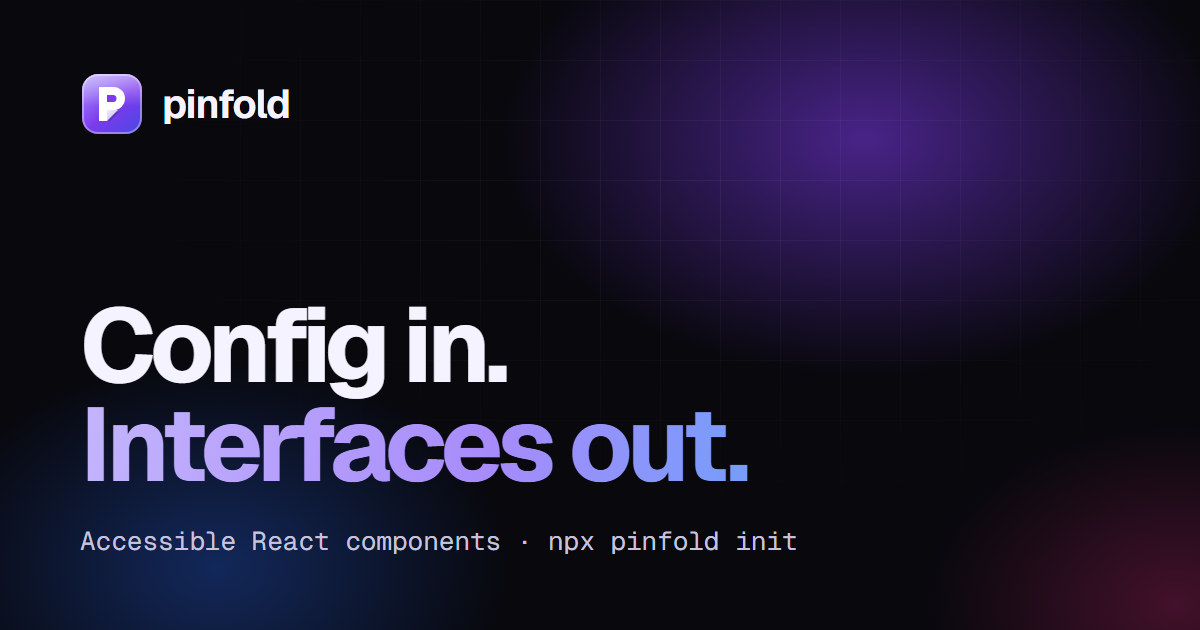
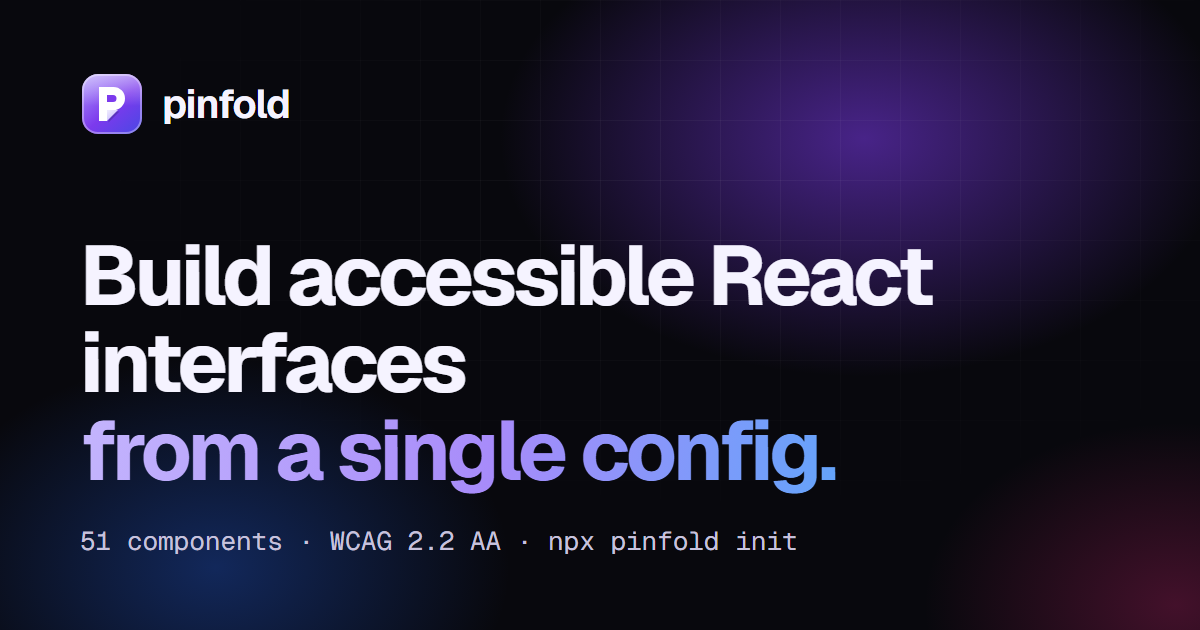
Examples: presets by default, the hook only where the controller is used; MCP prefers presets; clearer READMEs and headline

Changed region(s): [[0.0617, 0.3619, 0.8017, 0.7841], [0.0617, 0.8444, 0.4317, 0.8746]]

diff --git a/packages/core/src/button.meta.ts b/packages/core/src/button.meta.ts
@@ -149,14 +149,14 @@ export const buttonMeta: ComponentMeta = {
       code: "// ui/buttons.ts\nimport { defineButton } from '@pinfold/react/button';\nexport const Primary = defineButton({ tone: 'primary' });\nexport const Danger = defineButton({ variant: 'soft', tone: 'danger' });\n\n// any component, loops included\n<Primary label=\"Save\" onClick={save} />\n{rows.map((r) => <Danger key={r.id} label=\"Delete\" onClick={() => remove(r.id)} />)}",
     },
     {
-      title: 'Client hook (when you need the controller)',
-      code: "import { useButton } from '@pinfold/react/button';\n\nexport function SaveButton() {\n  const Save = useButton({ label: 'Save', tone: 'success', onClick: save });\n  return <Save />;\n}",
+      title: 'Hook: the controller, in a client component',
+      code: "'use client';\nimport { useButton } from '@pinfold/react/button';\n\n// Hooks run in client components only. The hook also returns a controller: loading, setLoading, focus and click.\nexport function SaveButton() {\n  const Save = useButton({ label: 'Save', tone: 'success', onClick: async () => { await api.save(); } });\n  return (\n    <>\n      <Save />\n      <p>{Save.loading ? 'Saving…' : 'Ready'}</p>\n    </>\n  );\n}",
     },
-    { title: 'Async: loading comes for free', code: "const Save = useButton({ label: 'Save', loadingText: 'Saving…', onClick: async () => { await api.save(); } });" },
-    { title: 'Icon-only (the label becomes the name)', code: "const Remove = useButton({ label: 'Delete', icon: <TrashIcon />, iconOnly: true, variant: 'ghost', tone: 'danger' });" },
+    { title: 'Async: loading comes for free', code: "const Save = defineButton({ loadingText: 'Saving…' });\n\n<Save label=\"Save\" onClick={async () => { await api.save(); }} />" },
+    { title: 'Icon-only (the label becomes the name)', code: "const Remove = defineButton({ icon: <TrashIcon />, iconOnly: true, variant: 'ghost', tone: 'danger' });\n\n<Remove label=\"Delete\" />" },
     { title: 'Start and end content, shapes', code: "<Button label=\"Inbox\" variant=\"elevated\" endContent={<Badge label=\"12\" />} />\n<Button label=\"New\" shape=\"pill\" icon={<PlusIcon />} />\n<Button label=\"Add\" shape=\"circle\" iconOnly icon={<PlusIcon />} />" },
     { title: 'A link through your router', code: "<Button label=\"Settings\" href=\"/settings\" variant=\"ghost\" onNavigate={(href) => router.push(href)} />" },
     { title: 'Server Component link', code: "import { defineButton } from '@pinfold/react/button';\n\nconst Docs = defineButton({ label: 'Read the docs', href: '/docs', variant: 'soft' });\nreturn <Docs />;" },
-    { title: 'App-wide defaults', code: "defineConfig({ size: 'sm', defaults: { button: { variant: 'soft', radius: 'full' } } });\n// A button's own config still wins: useButton({ label: 'Go', size: 'lg' }) is large." },
+    { title: 'App-wide defaults', code: "defineConfig({ size: 'sm', defaults: { button: { variant: 'soft', radius: 'full' } } });\n// A button's own config still wins: <Button label=\"Go\" size=\"lg\" /> is large." },
   ],
 };

diff --git a/packages/core/src/timeline.meta.ts b/packages/core/src/timeline.meta.ts
@@ -101,7 +101,7 @@ export const timelineMeta: ComponentMeta = {
   ],
   cssVariables: ['--pinfold-timeline-marker-size', '--pinfold-timeline-line-width', '--pinfold-timeline-gap', '--pinfold-timeline-opposite-width'],
   examples: [
-    { title: 'Progress with a status per event', code: "<History label=\"Deployment\" variant=\"icon\" connector=\"joined\" items={[\n  { title: 'Build', status: 'complete' },\n  { title: 'Tests', status: 'error', description: '2 failed' },\n  { title: 'Deploy', status: 'upcoming' },\n]} />" },
+    { title: 'Progress with a status per event', code: "import { defineTimeline } from '@pinfold/react/timeline';\n\nconst History = defineTimeline();\n\n<History label=\"Deployment\" variant=\"icon\" connector=\"joined\" items={[\n  { title: 'Build', status: 'complete' },\n  { title: 'Tests', status: 'error', description: '2 failed' },\n  { title: 'Deploy', status: 'upcoming' },\n]} />" },
     { title: 'Times on the other side', code: "<History label=\"Activity\" timePlacement=\"opposite\" items={events} />" },
     { title: 'Order history', code: "import { defineTimeline } from '@pinfold/react/timeline';\n\nexport const History = defineTimeline();\n\n<History label=\"Order history\" pending items={[\n  { title: 'Ordered', time: '2026-11-02T10:15' },\n  { title: 'Shipped', time: '2026-11-04', tone: 'success' },\n  { title: 'Out for delivery' },\n]} />" },
   ],

diff --git a/packages/core/src/spinner.meta.ts b/packages/core/src/spinner.meta.ts
@@ -105,7 +105,7 @@ export const spinnerMeta: ComponentMeta = {
   examples: [
     { title: 'Preset', code: "import { defineSpinner } from '@pinfold/react/spinner';\n\nexport const InlineSpinner = defineSpinner({ variant: 'dots', label: '', tone: 'current', size: 'sm' });\n// <p><InlineSpinner /> Loading results…</p>" },
     { title: 'Variants', code: "export const Track = defineSpinner({ variant: 'track', thickness: 'thick' });\nexport const Calm = defineSpinner({ variant: 'pulse', speed: 'slow', tone: 'neutral' });" },
-    { title: 'Client hook', code: "import { useSpinner } from '@pinfold/react/spinner';\n\nconst Loading = useSpinner({ label: 'Loading invoices' });\nreturn <Loading />;" },
-    { title: 'Decorative, next to text', code: "const Loading = useSpinner({ label: '', tone: 'current' });\nreturn <p><Loading /> Loading results…</p>;" },
+    { title: 'Named, so a screen reader announces it', code: "import { defineSpinner } from '@pinfold/react/spinner';\n\nconst Loading = defineSpinner({ label: 'Loading invoices' });\n\n<Loading />" },
+    { title: 'Decorative, next to text', code: "const Loading = defineSpinner({ label: '', tone: 'current' });\n\n<p><Loading /> Loading results…</p>" },
   ],
 };

diff --git a/packages/core/src/accordion.meta.ts b/packages/core/src/accordion.meta.ts
@@ -344,8 +344,8 @@ export const accordionMeta: ComponentMeta = {
       code: "import { defineAccordion } from '@pinfold/react/accordion';\n\nexport const Faq = defineAccordion({ variant: 'separated', mode: 'multiple' });\n\n// a loop, a Server Component, anywhere\n{categories.map((c) => <Faq key={c.id} items={c.questions} />)}",
     },
     {
-      title: 'Client hook',
-      code: "import { useAccordion } from '@pinfold/react/accordion';\n\nexport function Faq() {\n  const Faq = useAccordion({ items: [{ title: 'What is Pinfold?', content: 'Config in, accessible UI out.' }] });\n  return <Faq />;\n}",
+      title: 'Hook: the controller, in a client component',
+      code: "'use client';\nimport { useAccordion } from '@pinfold/react/accordion';\n\n// Hooks run in client components only. The hook also returns a controller: openAll, closeAll, toggle, value…\nexport function FaqPage() {\n  const Faq = useAccordion({ mode: 'multiple', items: [{ title: 'What is Pinfold?', content: 'Accessible React components from one typed config.' }] });\n  return (\n    <>\n      <button onClick={Faq.openAll}>Expand all</button>\n      <Faq />\n    </>\n  );\n}",
     },
     {
       title: 'Server Component',

diff --git a/packages/core/src/colorpicker.meta.ts b/packages/core/src/colorpicker.meta.ts
@@ -94,7 +94,7 @@ export const colorpickerMeta: ComponentMeta = {
   examples: [
     {
       title: 'Presets in rows, checked for contrast',
-      code: "<BrandColor label=\"Accent\" description=\"Used for buttons and links.\"\n  swatches={[{ label: 'Brand', colors: [{ value: '#4f46e5', label: 'Indigo' }, '#0ea5e9'] }, { label: 'Neutrals', colors: ['#0f172a', '#64748b', '#e2e8f0'] }]}\n  validate={(c) => (contrast(c, '#fff') < 3 ? { status: 'warning', message: 'Low contrast on white' } : null)} />",
+      code: "import { defineColorPicker } from '@pinfold/react/colorpicker';\n\nconst BrandColor = defineColorPicker();\n\n<BrandColor label=\"Accent\" description=\"Used for buttons and links.\"\n  swatches={[{ label: 'Brand', colors: [{ value: '#4f46e5', label: 'Indigo' }, '#0ea5e9'] }, { label: 'Neutrals', colors: ['#0f172a', '#64748b', '#e2e8f0'] }]}\n  validate={(c) => (contrast(c, '#fff') < 3 ? { status: 'warning', message: 'Low contrast on white' } : null)} />",
     },
     {
       title: 'A brand colour in OKLCH',

diff --git a/packages/core/src/menu.meta.ts b/packages/core/src/menu.meta.ts
@@ -140,6 +140,6 @@ export const menuMeta: ComponentMeta = {
       title: 'Managed selection, search, rich rows',
       code: "<Menu\n  trigger={{ label: 'Assign' }}\n  searchable\n  selectionMode=\"multiple\"\n  value={assignees}\n  onValueChange={setAssignees}\n  header={<strong>Assign to</strong>}\n  items={people.map((p) => ({ id: p.id, label: p.name, description: p.email, startContent: <Avatar name={p.name} size=\"sm\" /> }))}\n/>",
     },
-    { title: 'Context menu', code: "const Canvas = useMenu({ mode: 'context', label: 'Canvas', trigger: <div className=\"canvas\" tabIndex={0} />, items });\nreturn <Canvas />;" },
+    { title: 'Context menu', code: "const Canvas = defineMenu({ mode: 'context' });\n\n<Canvas label=\"Canvas\" trigger={<div className=\"canvas\" tabIndex={0} />} items={items} />" },
   ],
 };

diff --git a/packages/cli/mcp.test.ts b/packages/cli/mcp.test.ts
@@ -42,6 +42,9 @@ describe('pinfold mcp', () => {
     expect(text).toContain("import '@pinfold/css/pagination.css';");
     expect(text).toContain('npx shadcn add @pinfold/table');
     expect(text).toContain('defineTable');
+    // The preset comes first, and the hook is named as the client-only choice.
+    expect(text.indexOf('defineTable')).toBeLessThan(text.indexOf('useTable'));
+    expect(text).toMatch(/client component that needs the controller/);
     expect(call('get_install_steps').content[0].text).toContain('npx pinfold init');
   });
 

diff --git a/README.md b/README.md
@@ -4,10 +4,10 @@
 
 # Pinfold
 
-**Config in. Interfaces out.**
+**Build accessible React interfaces from a single config.**
 
-Accessible React components from one typed object: data grids, date pickers, command palettes and more.
-Every part stays yours to restyle.
+A typed component library for React. Each of its 51 accessible components, from data grids to date pickers,
+is driven by one configuration object: server-ready, themeable in any colour format, and customisable down to every part.
 
 [![npm](https://img.shields.io/npm/v/@pinfold/react?color=7c3aed&label=%40pinfold%2Freact)](https://www.npmjs.com/package/@pinfold/react)
 [![license](https://img.shields.io/npm/l/@pinfold/react?color=4f46e5)](LICENSE)
@@ -17,7 +17,7 @@ Every part stays yours to restyle.
 
 [**Documentation**](https://pinfold.indranildev.in/docs) · [**Components**](https://pinfold.indranildev.in/docs/table) · [**Theming**](https://pinfold.indranildev.in/docs/theming) · [**AI and MCP**](https://pinfold.indranildev.in/docs/ai)
 
-<img src=".github/assets/banner.png" alt="Pinfold: config in, interfaces out" width="100%" />
+<img src=".github/assets/banner.png" alt="Pinfold: build accessible React interfaces from a single config" width="100%" />
 
 </div>
 
@@ -56,11 +56,11 @@ correct ARIA. The config is typed against your rows, so a misspelt column is a c
 ## Three ways to use a component
 
 ```tsx
-// 1. A preset: one look, used anywhere
+// 1. A preset (the default): one look, used anywhere, Server Components included
 export const Danger = defineButton({ variant: 'soft', tone: 'danger' });
 {rows.map((r) => <Danger key={r.id} label="Delete" onClick={() => remove(r.id)} />)}
 
-// 2. A hook: the component and its controller
+// 2. A hook, in a client component: the component and its controller
 const Faq = useAccordion({ items, mode: 'multiple' });
 <button onClick={Faq.openAll}>Expand all</button>
 <Faq />

diff --git a/packages/react/README.md b/packages/react/README.md
@@ -4,7 +4,7 @@
 
 # @pinfold/react
 
-**Config in. Interfaces out.** Accessible React components from one typed object.
+**Build accessible React interfaces from a single config.**
 
 [Documentation](https://pinfold.indranildev.in/docs) · [Components](https://pinfold.indranildev.in/docs/table) · [Theming](https://pinfold.indranildev.in/docs/theming) · [GitHub](https://github.com/IndranilBhattacharya/pinfold)
 
@@ -48,7 +48,7 @@ Every component has the same three forms with the same config:
 | | |
 | --- | --- |
 | `define<Name>(config)` | A preset you use as a tag. Server Components included. |
-| `use<Name>(config)` | The component and its controller, e.g. `Faq.openAll()`, `Grid.downloadCsv()`. |
+| `use<Name>(config)` | In a client component: the component and its controller, e.g. `Faq.openAll()`, `Grid.downloadCsv()`. Hooks cannot run in Server Components. |
 | `<Name {...config} />` | The plain tag, when one instance is all you need. |
 
 ## Make it yours
